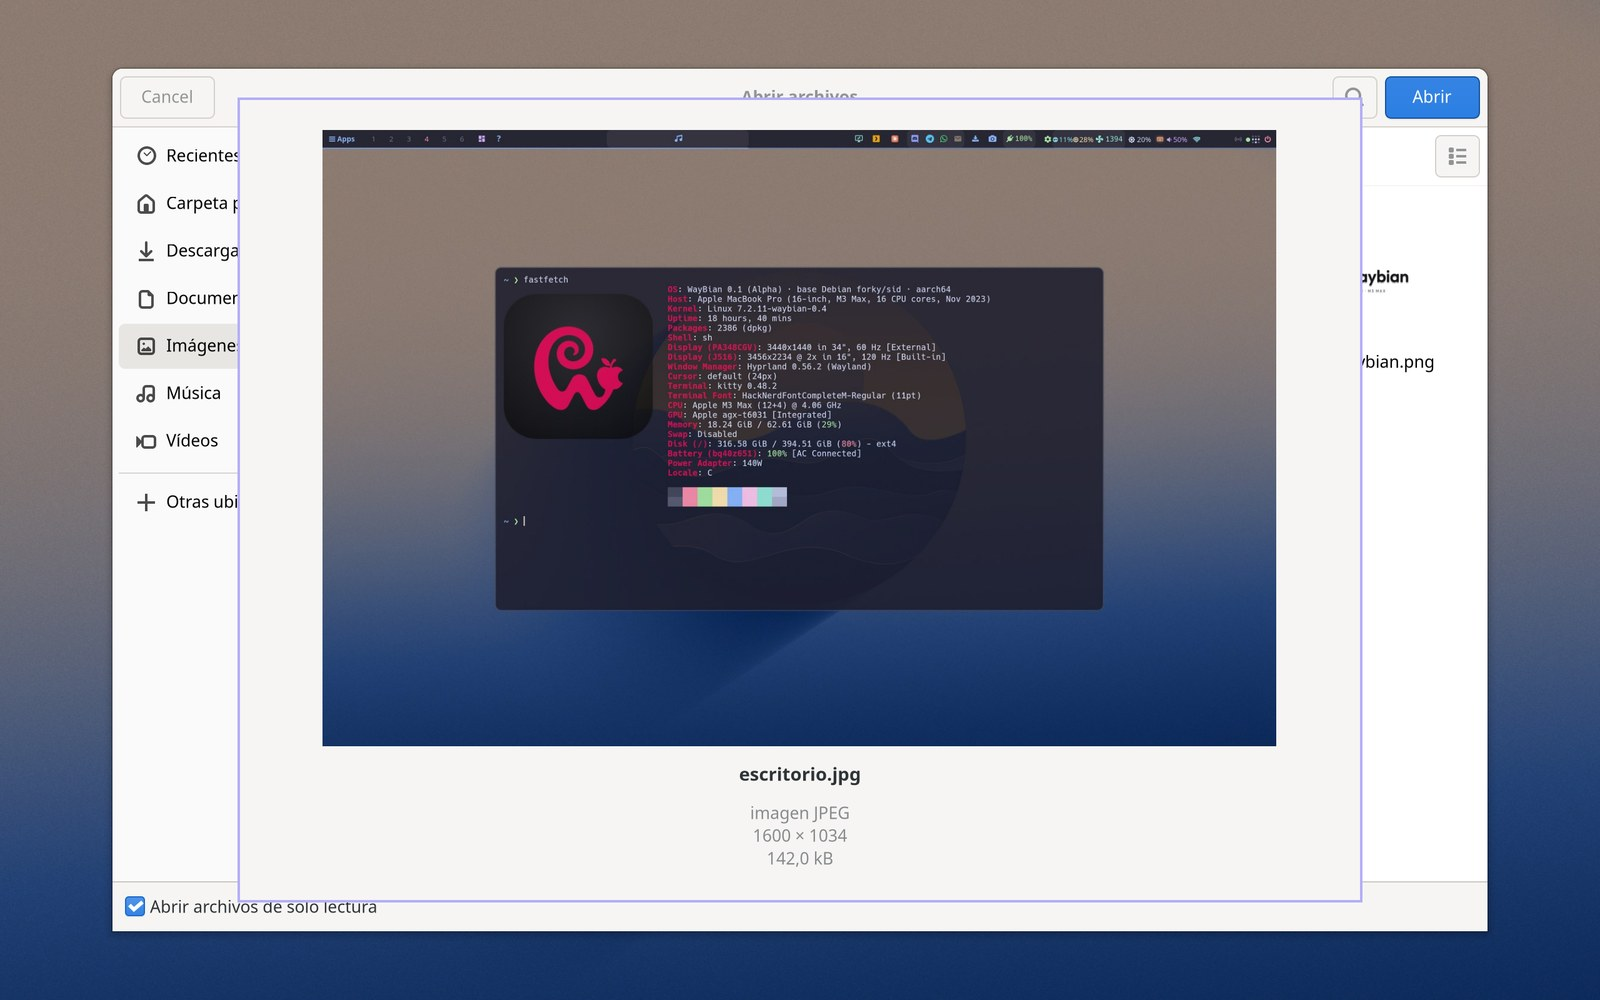
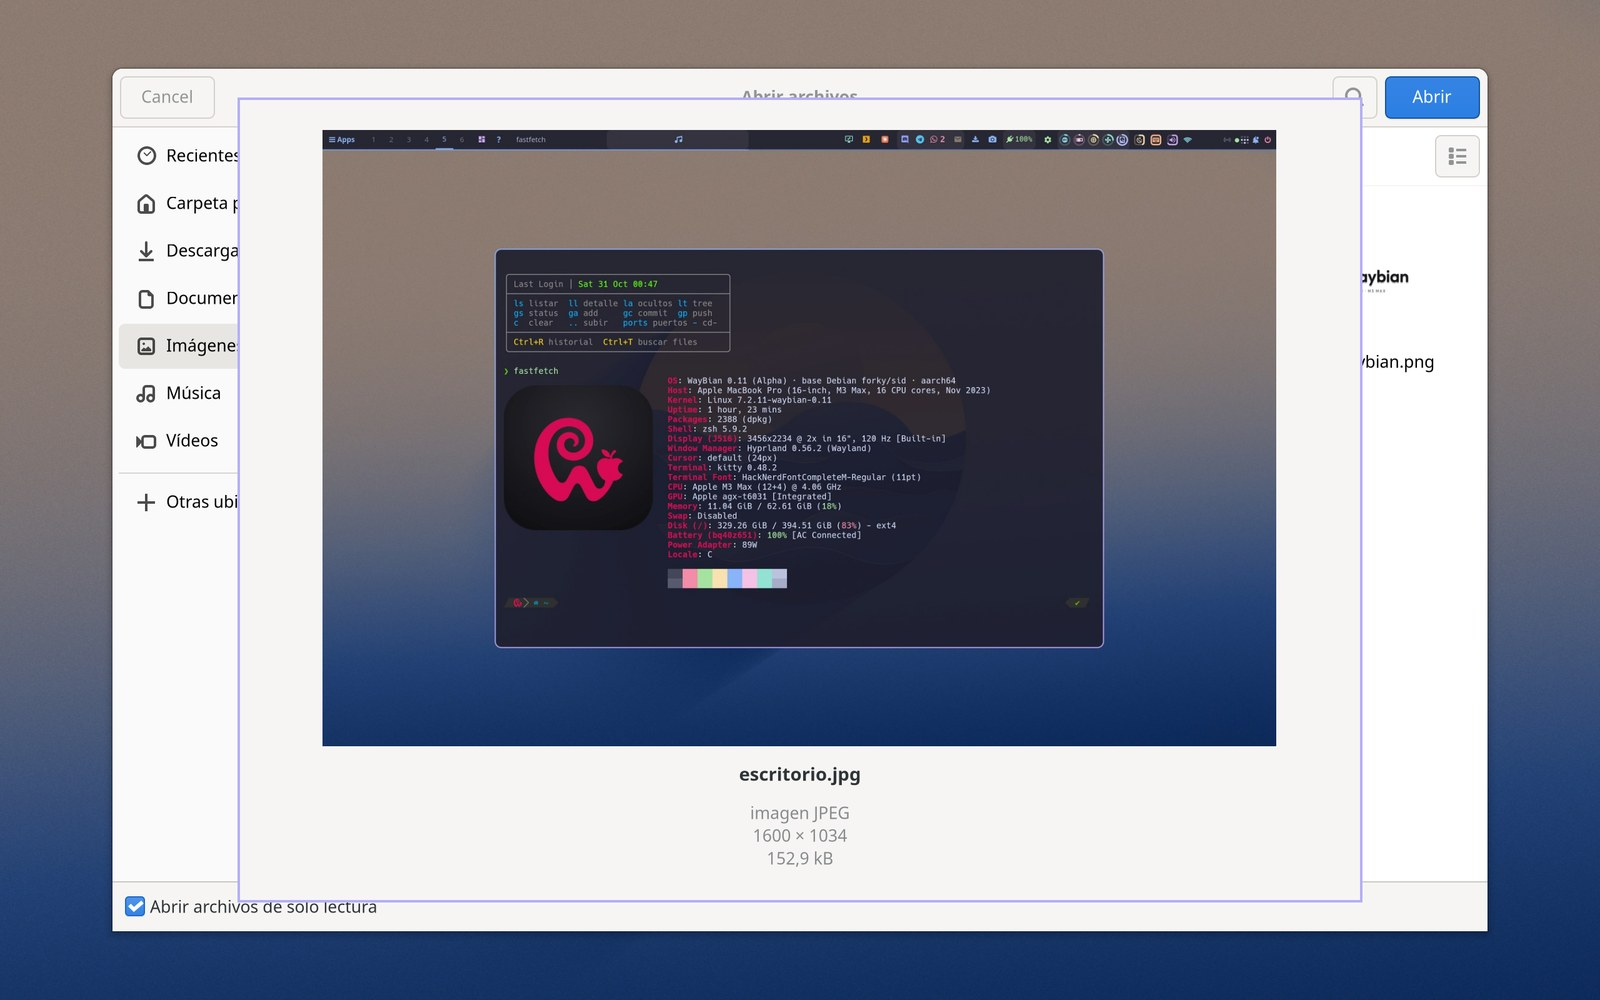
Open dialog pictures with the current screenshots
The grid, Quick Look and before/after pictures of the GTK4 open dialog
use WayBian's own screenshots as sample files, so they still showed the
old desktop and bar. Regenerated (English and Spanish) from the pictures
retaken today, here and in the portal fork, which is now pinned at
08b7199 (README pictures only).

Claude-Session: https://claude.ai/code/session_013Fj1pFpNwdgsUP2jErzBr1

diff --git a/docs/forks.md b/docs/forks.md
@@ -84,7 +84,7 @@ No commits of ours: a mirror.
 
 ### xdg-desktop-portal-gtk4: Quick Look in the GTK4 file dialogs
 
-Fork [samucarre/xdg-desktop-portal-gtk4](https://github.com/samucarre/xdg-desktop-portal-gtk4/tree/waybian), branch `waybian` (its default branch), pinned at `b369398` as `forks/xdg-desktop-portal-gtk4`. Base: mahkoh/xdg-desktop-portal-gtk4 master (`2372e15`).
+Fork [samucarre/xdg-desktop-portal-gtk4](https://github.com/samucarre/xdg-desktop-portal-gtk4/tree/waybian), branch `waybian` (its default branch), pinned at `08b7199` as `forks/xdg-desktop-portal-gtk4`. Base: mahkoh/xdg-desktop-portal-gtk4 master (`2372e15`).
 
 | # | Date | Commit | Patch |
 |---|---|---|---|
